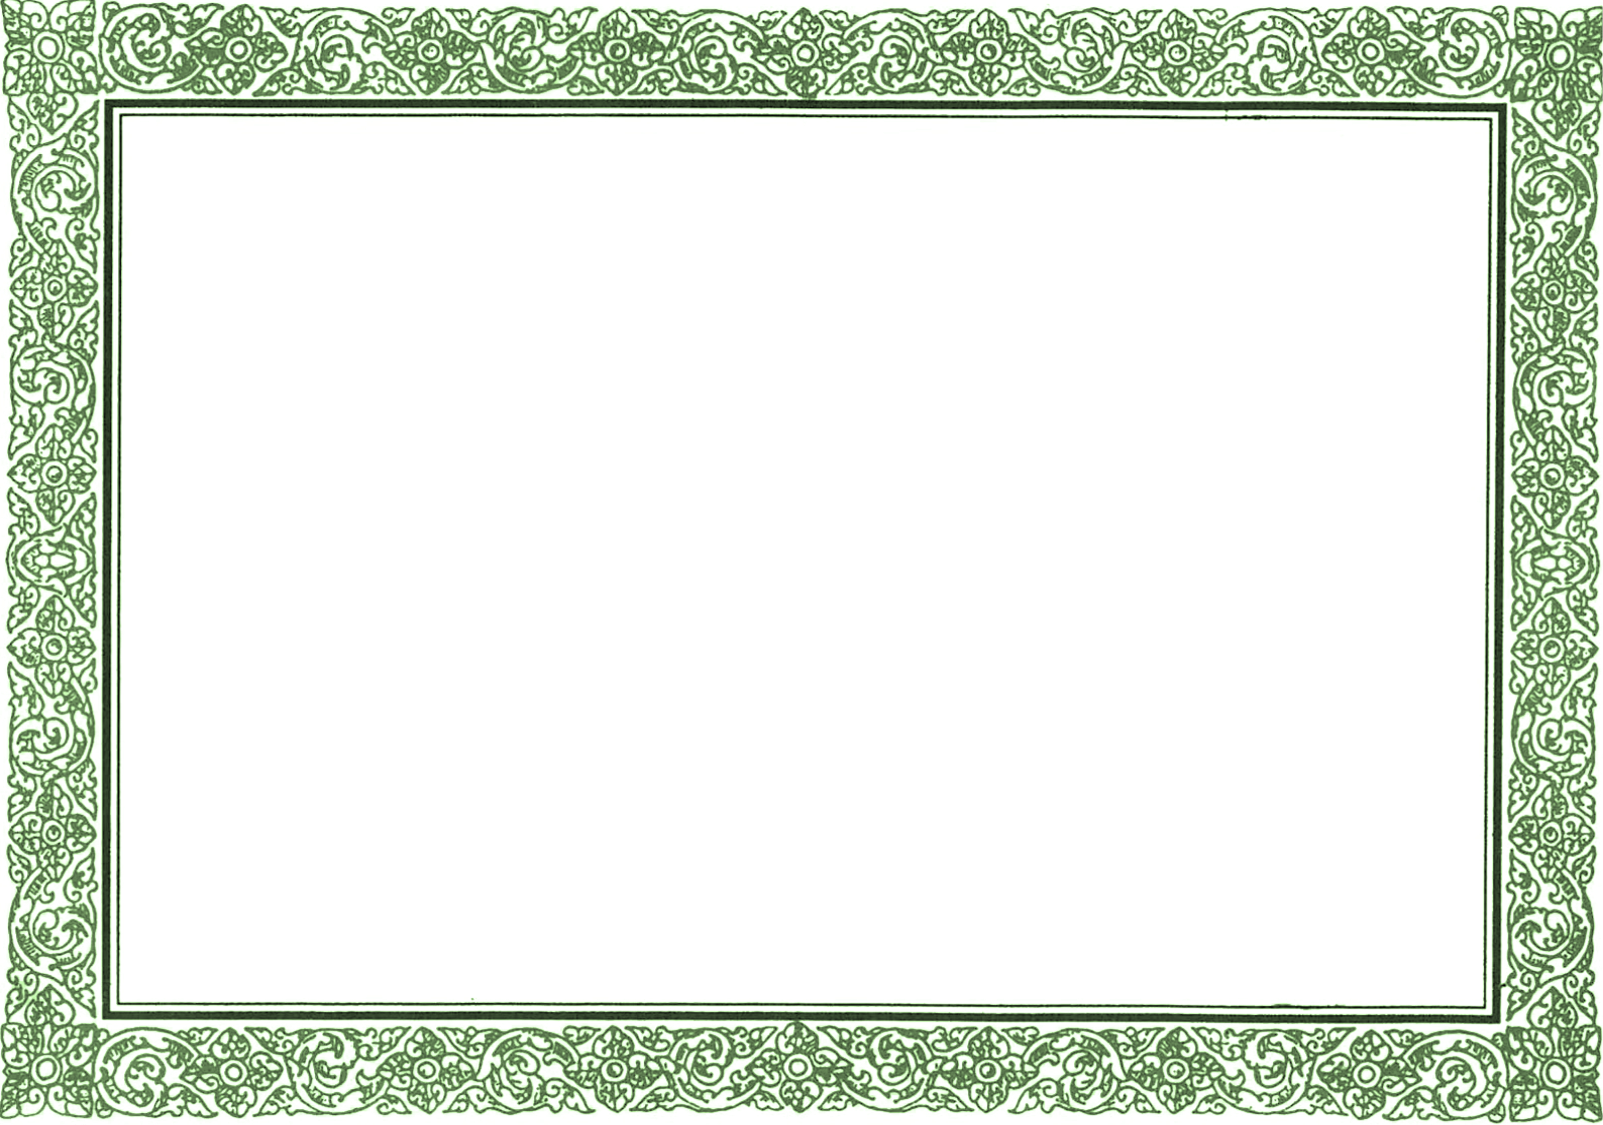
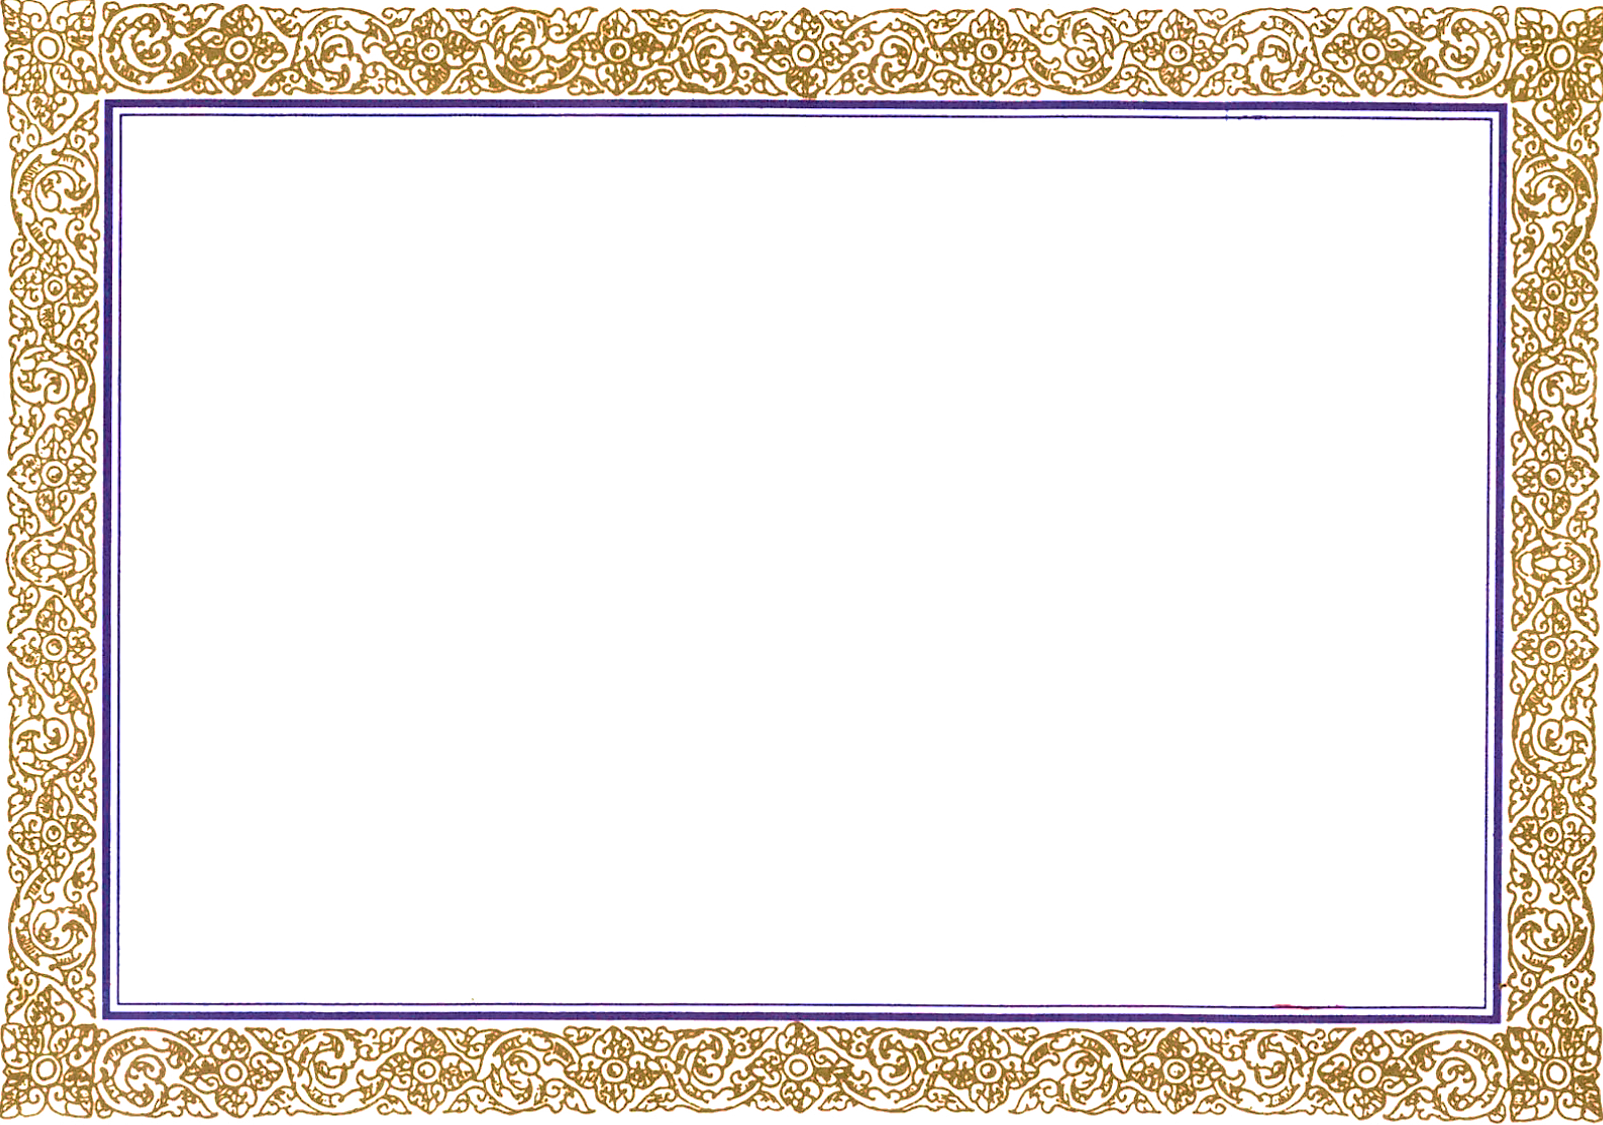
MeritCertificate: match certificate.docx (gold frame + CAMKIDS header)
- Use the docx's actual gold frame (public/cert-frame.png from image2) and
  drop the sepia filter that was faking gold from the green frame.
- Header now shows the CAMKIDS banner logo (public/camkids-logo.png) with
  "អង្គការមូលនិធិដើម្បីកុមារកម្ពុជា(ខេមឃីត)" above "សាលាសហគមន៍ច្បារច្រុះ",
  matching the official certificate.docx.

Changed region(s): [[0.0, 0.0, 1.0, 1.0]]

diff --git a/src/components/MeritCertificate.tsx b/src/components/MeritCertificate.tsx
@@ -6,7 +6,6 @@
 import React, { useRef, useState } from 'react';
 import { Printer, X, Camera } from 'lucide-react';
 import { StudentScore } from '../types';
-import SchoolLogo from './SchoolLogo';
 import PrincipalSignature from './PrincipalSignature';
 import TeacherSignature from './TeacherSignature';
 import { khmerLunarFull } from '../utils/khmerDate';
@@ -117,17 +116,18 @@ export default function MeritCertificate({ student, students, onClose }: MeritCe
         {/* Certificate sheet (landscape) */}
         <div id="merit-cert" className="bg-white rounded-b-2xl">
           {/* Decorative frame image — place the file at public/cert-frame.png */}
-          <div className="relative w-full" style={{ aspectRatio: '1.414 / 1' }}>
-            <img src="/cert-frame.png" alt="" className="absolute inset-0 w-full h-full pointer-events-none select-none" style={{ filter: 'sepia(1) saturate(1.7) hue-rotate(-12deg) brightness(1.08)' }} />
-            <div className="absolute inset-0 flex flex-col text-slate-800" style={{ padding: '6.5% 9% 5.5%' }}>
+          <div className="relative w-full" style={{ aspectRatio: '1.414 / 1', containerType: 'inline-size' }}>
+            <img src="/cert-frame.png" alt="" className="absolute inset-0 w-full h-full pointer-events-none select-none" />
+            <div className="absolute inset-0 flex flex-col text-slate-800" style={{ padding: '6% 10.5% 5%' }}>
 
-              {/* Header: logo over school name (left), kingdom motto (right) */}
+              {/* Header: CAMKIDS org (left), kingdom motto (right) */}
               <div className="flex items-start justify-between">
-                <div className="flex flex-col items-center text-emerald-700">
-                  <SchoolLogo size={58} />
-                  <div className="text-base font-bold mt-0.5">សាលាសហគមន៍ច្បារច្រុះ</div>
+                <div className="flex flex-col items-start text-emerald-800 max-w-[52%]" style={{ fontSize: '1.9cqw' }}>
+                  <img src="/camkids-logo.png" alt="CAMKIDS" className="object-contain" style={{ height: '6.5cqw' }} />
+                  <div className="font-semibold mt-0.5">អង្គការមូលនិធិដើម្បីកុមារកម្ពុជា(ខេមឃីត)</div>
+                  <div className="font-bold">សាលាសហគមន៍ច្បារច្រុះ</div>
                 </div>
-                <div className="text-center text-[16px] text-emerald-800">
+                <div className="text-center text-emerald-800" style={{ fontSize: '1.9cqw' }}>
                   <div className="font-bold">ព្រះរាជាណាចក្រកម្ពុជា</div>
                   <div className="font-semibold">ជាតិ សាសនា ព្រះមហាក្សត្រ</div>
                   <div className="text-amber-600 tracking-widest">~ ~ ~ ~ ~</div>
@@ -136,12 +136,12 @@ export default function MeritCertificate({ student, students, onClose }: MeritCe
 
               {/* Title */}
               <div className="text-center mt-1">
-                <h1 className="text-6xl font-extrabold text-red-600 tracking-wide" style={{ fontFamily: 'inherit' }}>ប័ណ្ណសរសើរ</h1>
-                <p className="text-2xl font-bold text-slate-700 mt-0.5">នាយកសាលាសហគមន៍ច្បារច្រុះ</p>
+                <h1 className="font-extrabold text-red-600 tracking-wide" style={{ fontFamily: 'inherit', fontSize: '8.5cqw', lineHeight: 1.05 }}>ប័ណ្ណសរសើរ</h1>
+                <p className="font-bold text-slate-700" style={{ fontSize: '3.4cqw' }}>នាយកសាលាសហគមន៍ច្បារច្រុះ</p>
               </div>
 
-              {/* Body — larger text, justified to both margins */}
-              <div className="text-[20px] leading-[1.8] text-justify mt-3">
+              {/* Body — scales with the frame, justified to both margins */}
+              <div className="text-justify mt-4" style={{ fontSize: '2.6cqw', lineHeight: 1.9 }}>
                 <p>
                   សូមសរសើរចំពោះសិស្សឈ្មោះ <span className="font-bold text-red-700">{student.name}</span>{' '}
                   ភេទ <span className="font-bold">{student.gender}</span>{' '}